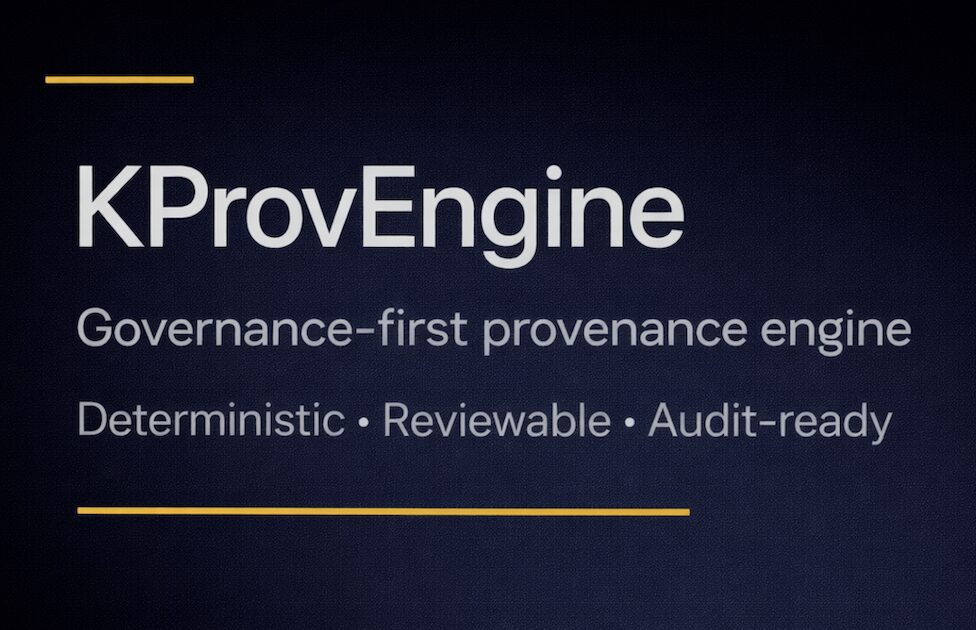
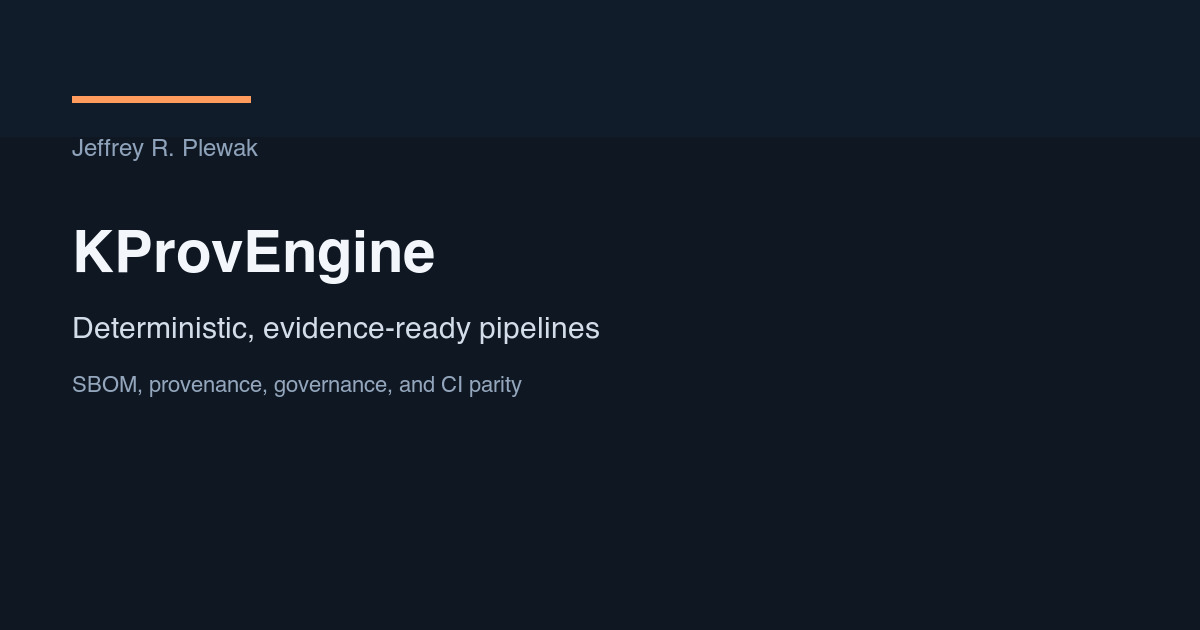
fix(og): add route-level social preview assets

diff --git a/src/lib/metadata/images.ts b/src/lib/metadata/images.ts
@@ -1,6 +1,9 @@
 import { SITE_URL } from "@/lib/jsonld";
 
 const DEFAULT_OG_ALT = "Jeffrey R. Plewak — Senior Software Engineer";
+const RECRUITER_OG_ALT = "Recruiter Overview";
+const RESUME_OG_ALT = "Resume";
+const PROJECTS_OG_ALT = "Projects";
 const KPROVENGINE_OG_ALT = "KProvEngine";
 
 export const DEFAULT_OG_IMAGES = [
@@ -20,10 +23,43 @@ export const DEFAULT_OG_IMAGES = [
 
 export const DEFAULT_TWITTER_IMAGES = DEFAULT_OG_IMAGES.map((image) => image.url);
 
+export const RECRUITER_OG_IMAGES = [
+  {
+    url: `${SITE_URL}/og/recruiter.jpg`,
+    width: 1200,
+    height: 630,
+    alt: RECRUITER_OG_ALT,
+  },
+];
+
+export const RECRUITER_TWITTER_IMAGES = RECRUITER_OG_IMAGES.map((image) => image.url);
+
+export const RESUME_OG_IMAGES = [
+  {
+    url: `${SITE_URL}/og/resume.jpg`,
+    width: 1200,
+    height: 630,
+    alt: RESUME_OG_ALT,
+  },
+];
+
+export const RESUME_TWITTER_IMAGES = RESUME_OG_IMAGES.map((image) => image.url);
+
+export const PROJECTS_OG_IMAGES = [
+  {
+    url: `${SITE_URL}/og/projects.jpg`,
+    width: 1200,
+    height: 630,
+    alt: PROJECTS_OG_ALT,
+  },
+];
+
+export const PROJECTS_TWITTER_IMAGES = PROJECTS_OG_IMAGES.map((image) => image.url);
+
 export const KPROVENGINE_OG_IMAGES = [
   {
     url: `${SITE_URL}/projects/kprovengine/og.jpg`,
-    width: 976,
+    width: 1200,
     height: 630,
     alt: KPROVENGINE_OG_ALT,
   },
